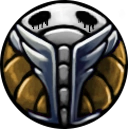
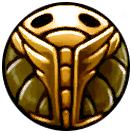
Switched Stagway Coin and Marathon Master

diff --git a/Exaltation.cs b/Exaltation.cs
@@ -278,10 +278,10 @@ namespace Exaltation
 			if (IsGlorified("Dashmaster"))
 			{
 				if (key == "CHARM_NAME_31")
-					return "Marathon Master";
+					return "Stagway Coin";
 				else if (key == "CHARM_DESC_31")
-					return "Bears the likeness of an eccentric bug known only as ‘The Dashmaster', in true form.\n\n" +
-						"The bearer will be able to dash more often as well as dash downwards.";
+					return "A tarnished symbol once held by the upper caste of Hallownest. Each coin allowed priority access to the Stagways, should its holder prefer the old paths.\n\n" +
+                        "The bearer will be able to dash more often as well as dash downwards. Perfect for those who want to expedite their travels.";
 			}
 			if (IsGlorified("QuickSlash"))
 			{
@@ -302,10 +302,10 @@ namespace Exaltation
 			if (IsGlorified("Sprintmaster"))
 			{
 				if (key == "CHARM_NAME_37")
-					return "Stagway Coin";
+					return "Marathon Master";
 				else if (key == "CHARM_DESC_37")
-					return "A tarnished symbol once held by the upper caste of Hallownest. Each coin allowed priority access to the Stagways, should its holder prefer the old paths.\n\n" +
-						"Greatly increases the running speed of its bearer, allowing them to expedite their travels.";
+                    return "Bears the likeness of a strange bug known only as 'The Sprintmaster', in true form.\n\n" +
+                        "Greatly increases the running speed of its bearer, allowing them to outrace many a bug.";
 			}
             if (Settings.Lordsoul)
             {

diff --git a/CHARM_LIST.md b/CHARM_LIST.md
@@ -159,7 +159,7 @@ Costs three notches instead of four, and regenerates health 20% faster.
 
 Glorified by defeating the Pure Vessel.
 
-## Dashmaster -> Marathon Master
+## Dashmaster -> Stagway Coin
 
 ![DM](https://github.com/TheodoreChristianRadu/Exaltation/blob/master/Resources/Charms/31.png?raw=true)
 
@@ -183,11 +183,11 @@ Increases spell damage depending on remaining SOUL after cast. Every 4 SOUL incr
 
 Glorified by completing the Pantheon of the Artist with SOUL bound or defeating ascended Uumuu.
 
-## Sprintmaster -> Stagway Coin
+## Sprintmaster -> Marathon Master
 
 ![Coin](https://github.com/TheodoreChristianRadu/Exaltation/blob/master/Resources/Charms/37.png?raw=true)
 
-Increases movement speed by 40%, instead of 20%. Combine with Marathon Master for shenanigans.
+Increases movement speed by 40%, instead of 20%. Combine with Stagway Coin for shenanigans.
 
 Glorified by defeating Paintmaster Sheo.
 
